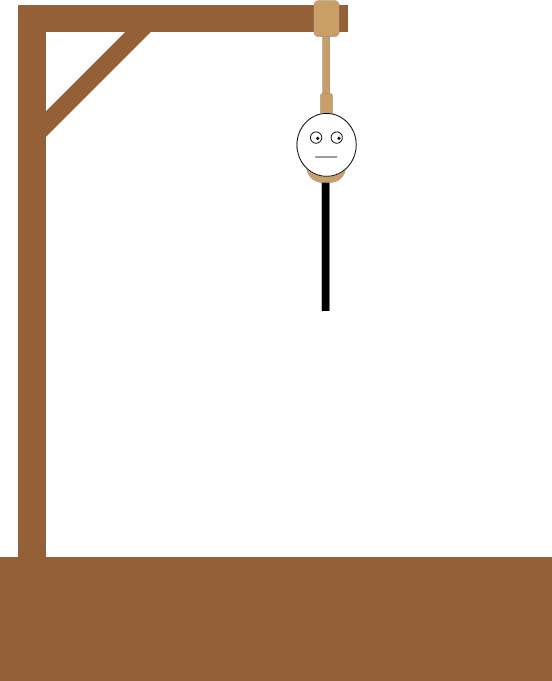
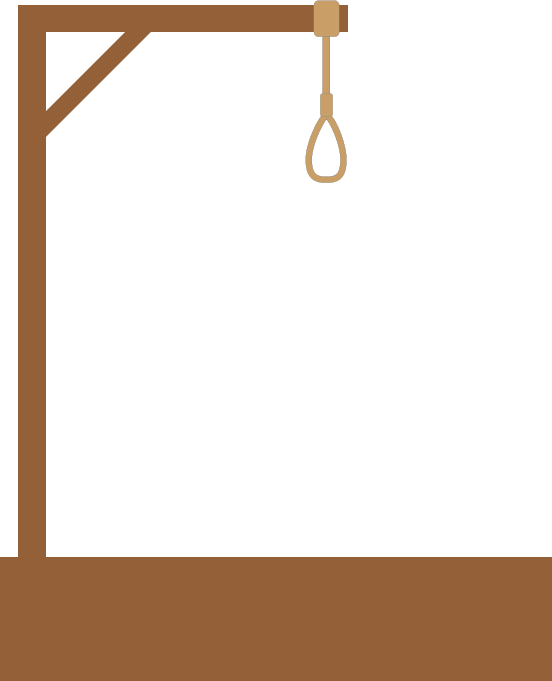
Ajouter plus d'erreurs possibles

Changed region(s): [[0.5236, 0.1542, 0.6467, 0.4626]]

diff --git a/assets/js/script.js b/assets/js/script.js
@@ -6,6 +6,9 @@ const penduSrc = [
     "assets/img/pendu4.png",
     "assets/img/pendu5.png",
     "assets/img/pendu6.png",
+    "assets/img/pendu7.png",
+    "assets/img/pendu8.png",
+    "assets/img/pendu9.png",
 ];
 
 const randomWords = ["ABALONE","ABALONES","ABDUCTION","ABDUCTIONS","ABERRANT","ABERRANTS","ABRACADABRA","ABRACADABRAS","ABRAXAS","ACROBATES","ACROSTICHE","ACROSTICHES","ACTIONNAIRE","ACTIONNAIRES","ADDICT","ADDICTS","ADJUGE","ADJUGES","AFICIONADO","AFICIONADOS","AGENT","AGENTS","AGGRAVATION","AGGRAVATIONS","AGORA","AGORAS","AIDEAU","AIDEAUX","ALARME","ALARMES","ALBEDO","ALBEDOS","ALCAZAR","ALCAZARS","ALEA","ALEAS","ALIAS","ALIBI","ALIBIS","ALIENS","ALLIANCE","ALLIANCES","ALPAGES","ALUETTE","ALUETTES","AMAZONE","AMAZONES","AMBIGU","AMBIGUS","AMBITION","AMBITIONS","AMBRE","AMBRES","AMERICAIN","AMERICAINS","AMIRAUTE","AMIRAUTES","ANACROISES","ANAGRAMME","ANAGRAMMES","ANCIENNE","ANCIENNES","ANE","ANES","ANGUILLE","ANGUILLES","ANIMA","ANIMAS","BACCALAUREAT","BACCALAUREATS","BACCARA","BACCARAS","BACCHANALES","BACKGAMMON","BACKGAMMONS","BADABOUM","BAGATELLE","BAGATELLES","BAGOU","BAGOUS","BAGUENAUDIER","BAGUENAUDIERS","BAGUES","BALAI","BALAIS","BALAN","BALANCE","BALANCES","BALLAST","BALLASTS","BALLE","BALLES","BALLON","BALLONS","BALTHAZAR","BALTHAZARS","BAMBOUS","BANCO","BANCOS","BANDA","BANDAS","BANQUISE","BANQUISES","BANTU","BANTUS","BANZAI","BAQUET","BAQUETS","BARAQUE","BARAQUES","BARATIN","BARATINS","BARBOTTE","BARBOTTES","BARBU","BARBUS","BARON","BARONS","BARRACUDA","BARRACUDAS","BARRES","BARRICADE","BARRICADES","BASCULE","BASCULES","BASIC","BASICS","BASKET","BASKETS","BASSETTE","BASSETTES","BASTIDE","BASTIDES","BASTON","BASTONS","BATACLAN","BATACLANS","BATAILLE","BATAILLES","BATAVIA","BATAVIAS","BATIK","BATIKS","BATONNETS","BELLIGERANTS","BELOTE","BELOTES","BENGALI","BENGALIS","BERET","BERETS","BERGER","BERGERS","BESIGUE","BESIGUES","BETE","BETES","BETISIER","BETISIERS","BIDET","BIDETS","BILBOQUET","BILBOQUETS","BILLARD","BILLARDS","BILLE","BILLES","BILLON","BILLONS","BINGO","BINGOS","BINOCLE","BINOCLES","BIRIBI","BIRIBIS","BISON","BISONS","BITUME","BITUMES","BLUFF","BLUFFER","BLUFFS","BOG","BOGS","BOLIDES","BOMBE","BOMBES","BONGO","BONGOS","BONNETEAU","BONNETEAUX","BOOMERANG","BOOMERANGS","BOSSE","BOSSES","BOSTON","BOSTONS","BOUC","BOUCLES","BOUCS","BOUILLOTTE","BOUILLOTTES","BOULE","BOULES","BOULIER","BOULIERS","BOUM","BOUMS","BOURRE","BOURRES","BOURRICOT","BOURRICOTS","BOURRU","BOURRUS","BOURSE","BOURSES","BOUTEILLE","BOUTEILLES","BRELAN","BRELANS","BRIDGE","BRIDGES","BRILLANCE","BRILLANCES","BRISQUE","BRISQUES","BROCANTE","BROCANTES","BROUHAHA","BROUHAHAS","BUCHER","BUCHERS","BUNKER","BUNKERS","BURGER","BURGERS","BUSHIDO","BUSHIDOS","BUSINESS","BUT","BUTEUR","BUTEURS","BUTS","BUTTE","BUTTES","CABALE","CABALES","CABRIOLET","CABRIOLETS","CACHETTE","CACHETTES","CAILLOU","CAILLOUX","CALCULA","CALCULAS","CALYPSO","CALYPSOS","CAMELEON","CAMELEONS","CAMELOT","CAMELOTS","CAMOUFLAGE","CAMOUFLAGES","CAMPAGNOL","CAMPAGNOLS","CAMPANILE","CAMPANILES","CAMPUS","CANASTA","CANASTAS","CANCRES","CANISSE","CANISSES","CANNES","CANONNIERS","CANYON","CANYONS","CAPHARNAUM","CAPHARNAUMS","CAPRICE","CAPRICES","CAPTURES","CARABISTOUILLE","CARABISTOUILLES","CARACOLE","CARACOLES","CARACTERE","CARACTERES","CARAIBES","CARAMBA","CARAMBOUILLE","CARAMBOUILLES","CARAVANE","CARAVANES","CARGO","CARGOS","CARIOCA","CARIOCAS","CARRE","CARRES","CARRIER","CARRIERES","CARRIERS","CARROM","CARROMS","CARROUSEL","CARROUSELS","CARTES","CASAQUE","CASAQUES","CASBAH","CASBAHS","CASH","CASHS","CASINO","CASINOS","CASQUETTE","CASQUETTES","CHEVRES","CHIBRE","CHIBRES","CHICOREE","CHICOREES","CHIEN","CHIENS","CHIMERES","CHINA","CHINAS","CHIQUE","CHIQUES","CHOUINE","CHOUINES","CIBLE","CIBLES","CINEMA","CINEMAS","CIRCUIT","CIRCUITS","CITADELLE","CITADELLES","CITE","CITES","CITOYENNETE","CITOYENNETES","CIVILISATION","CIVILISATIONS","CLAIM","CLAIMS","CLANS","CLE","CLES","CLIPPERS","CLOU","CLOUS","CLOWN","CLOWNS","COCHONNET","COCHONNETS","COCHONS","COCORICO","COCORICOS","CODE","CODES","COINCHE","COINCHES","COMBINARD","COMBINARDS","COMBO","COMBOS","COMMERE","COMMERES","CON","CONCORDANCES","CONDOTTIERE","CONDOTTIERES","CONFERENCE","CONFERENCES","CONFRONTATION","CONFRONTATIONS","CONFUSION","CONFUSIONS","CONNEXION","CONNEXIONS","CONQUETE","CONQUETES","CONQUISTADOR","CONQUISTADORS","CONS","CONSPIRATEURS","CONSPIRATIONS","CONSTELLATION","CONSTELLATIONS","CONTACT","CONTACTS","CONTINUO","CONTINUOS","CONTRA","CONTRARIO","CONTRAS","CONTREE","CONTREES","CONTROVERSE","CONTROVERSES","COPS","COQUELICOT","COQUELICOTS","CORBEILLE","CORBEILLES","CORDA","CORDAS","CORDE","CORDES","CORNER","CORNERS","CORPORATION","CORPORATIONS","CORRIDA","CORRIDAS","CORRUPTION","CORRUPTIONS","CORSAIRE","CORSAIRES","COSMOS","COUCOU","COUCOUS","COUILLON","COUILLONS","COUP","COUPEZ","COUPLES","COUPS","COURATE","COURATES","COURONNE","COURONNES","COURTISANS","COUYON","COUYONS","COYOTE","COYOTES","CRACK","CRACKS","CRAPAUD","CRAPAUDS","CRAPETTE","CRAPETTES","CRAPS","CREDO","CREDOS","CRESCENDO","CRESCENDOS","CRESUS","CRIB","CRIBS","CRICKET","CRICKETS","CRIMES","CRIQUET","CRIQUETS","CROISADES","CROIX","CROQUET","CROQUETS","CROSS","CROSSE","CROSSES","CRYPTOGAME","CRYPTOGAMES","CUBA","CUBAS","CUBE","CUBES","DADA","DADAS","DAIMYO","DAIMYOS","DEDALES","DEFI","DEFIS","DEGOMME","DEGOMMES","DELTA","DELTAS","DERBY","DERBYS","DERIVE","DERIVES","DES","DESTINS","DEVINETTE","DEVINETTES","DIABOLO","DIABOLOS","DIADOQUES","DIAM","DIAMANT","DIAMANTS","DIAMS","DICO","DICOS","DICTIONNAIRE","DICTIONNAIRES","DIGIT","DIGITS","DINETTE","DINETTES","DINGBATS","DINGO","DINGOS","DIPLOMATIE","DIPLOMATIES","DISPOSITION","DISPOSITIONS","DISPUTE","DISPUTES","DIVERTIMENTO","DIVERTIMENTOS","DIXIT","DOCKERS","DOGE","DOGES","DOMINO","DOMINOS","DON","DONS","DOTS","DOUBLE","DOUBLES","DOUBLETTE","DOUBLETTES","DRAGON","DRAGONS","DRAGSTER","DRAGSTERS","DRAKKAR","DRAKKARS","DRAPEAU","DRAPEAUX","DROGUE","DROGUES","DRUMLIN","DRUMLINS","DUEL","DUELS","DUNE","DUNES","DUO","DUOS","DYADE","DYADES","EAU","EAUX","ECARTE","ECARTES","ECHANGE","ECHANGES","ECHAPPEE","ECHAPPEES","ECHASSES","ECHECS","ECHELLE","ECHELLES","ECOLOGIE","ECOLOGIES","ESPERANCE","ESPERANCES","ESPIONNAGE","ESPIONNAGES","ETOILE","ETOILES","EUREKA","EXCELLENCE","EXCELLENCES","EXIT","EXPEDITION","EXPEDITIONS","EXPERTS","EXPORTATION","EXPORTATIONS","EXPOS","EXPRES","EXPRESS","EXPRESSION","EXPRESSIONS","EXPRESSO","EXPRESSOS","FACTEUR","FACTEURS","FAKIR","FAKIRS","FANTOMES","FARANDOLE","FARANDOLES","FARO","FAROS","FASCINATION","FASCINATIONS","FEERIE","FEERIES","FEODALITE","FEODALITES","FER","FERME","FERMES","FERS","FESTIVAL","FESTIVALS","FICELLE","FICELLES","FIEF","FIEFS","FIGARO","FIGAROS","FILOU","FILOUS","FINALE","FINALES","FINANCE","FINANCES","FINESSE","FINESSES","FINISH","FINISHS","FITS","FLAMBEUR","FLAMBEURS","FLASH","FLASHS","FLECHETTES","FLIBUSTIERS","FLIP","FLIPPER","FLIPPERS","FLIPS","FLORENTIN","FLORENTINS","FLUX","FOCAL","FOCUS","FONCTIONNAIRE","FONCTIONNAIRE","FONCTIONNAIRES","FONCTIONNAIRES","FOOT","FOOT","FOOTS","FOOTS","FORCE","FORCE","FORCES","FORCES","FORESTIERE","FORESTIERE","FORESTIERES","FORESTIERES","FORMA","FORMA","FORMAS","FORMAS","FORMICA","FORMICA","FORMICAS","FORMICAS","FORTERESSE","FORTERESSE","FORTERESSES","FORTERESSES","FORTISSIMO","FORTISSIMO","FRAGILE","FRAGILE","FRAGILES","FRAGILES","FRAGRANCES","FRAGRANCES","FRANCAISE","FRANCAISE","FRANCAISES","FRANCAISES","FRANCOPHILE","FRANCOPHILE","FRANCOPHILES","FRANCOPHILES","FRISBEE","FRISBEE","FRISBEES","FRISBEES","FRONTIERES","FRONTIERES","FRUITS","FRUITS","FUDGE","FUDGE","FUDGES","FUDGES","FUGITIFS","FUGITIFS","FURET","FURET","FURETS","FURETS","GALETS","GALETS","GALOCHE","GALOCHE","GALOCHES","GALOCHES","GAMATE","GAMATE","GAMATES","GAMATES","GAMELLE","GAMELLE","GAMELLES","GAMELLES","GANGSTER","GANGSTER","GANGSTERS","GANGSTERS","GARCON","GARCON","GARCONS","GARCONS","GAUDI","GAUDI","GAUDIS","GAUDIS","GENIAL","GENIAL","GEO","GEO","GEOS","GEOS","GERBE","GERBE","GERBES","GERBES","GIN","GIN","GINS","GINS","GLISSADE","GLISSADE","GLISSADES","GLISSADES","GO","GO","GONDOLIER","GONDOLIER","GONDOLIERS","GONDOLIERS","GORE","GORE","GORES","GORES","GOS","GOS","GOSSE","GOSSE","GOSSES","GOSSES","GOUREN","GOUREN","GOURENS","GOURENS","GOUTER","GOUTER","GOUTERS","GOUTERS","GRAAL","GRAAL","GRAALS","GRAALS","GRACES","GRACES","GRACIAS","GRACIAS","GRANITO","GRANITO","GRANITOS","GRANITOS","GRENOUILLE","GRENOUILLE","GRENOUILLES","GRENOUILLES","GREYHOUNDS","GREYHOUNDS","GRIMACES","GRIMACES","GUILDES","GUILDES","GUILLOTINE","GUILLOTINE","GUILLOTINES","GUILLOTINES","GUIMBARDE","GUIMBARDE","GUIM","HANDICAP","HANDICAPS","HANDICAPS","HANTISE","HANTISE","HANTISES","HANTISES","HASARD","HASARD","HASARDS","HASARDS","HELICE","HELICE","HELICES","HELICES","HERE","HERE","HERES","HERES","HERISSONS","HERISSONS","HERMINE","HERMINE","HERMINES","HERMINES","HEXAGONE","HEXAGONE","HEXAGONES","HEXAGONES","HIGHLANDERS","HIGHLANDERS","HOCA","HOCA","HOCAS","HOCAS","HOLDING","HOLDING","HOLDINGS","HOLDINGS","HOMBRE","HOMBRE","HOMBRES","HOMBRES","HONCHETS","HONCHETS","HONGROIS","HONGROIS","HOROSCOPE","HOROSCOPE","HOROSCOPES","HOROSCOPES","HOTEL","HOTEL","HOTELS","HOTELS","HUIT","HUIT","HURLEMENTS","HURLEMENTS","HUSSARDS","HUSSARDS","HYENE","HYENE","HYENES","HYENES","ICEBERG","ICEBERG","ICEBERGS","ICEBERGS","ILES","ILES","IMAGES","IMAGES","IMAGINE","IMAGINE","IMAGINES","IMAGINES","IMMOBILIER","IMMOBILIER","IMMOBILIERS","IMMOBILIERS","IMMORTEL","IMMORTEL","IMMORTELS","IMMORTELS","IMPERIAL","IMPERIAL","IMPERIALE","IMPERIALE","IMPERIALES","IMPERIALES","IMPERIUM","IMPERIUM","IMPERIUMS","IMPERIUMS","IMPRESARIO","IMPRESARIO","IMPRESARIOS","IMPRESARIOS","INAVOUABLE","INAVOUABLE","INAVOUABLES","INAVOUABLES","INCOGNITO","INCOGNITO","INCOGNITOS","INCOGNITOS","INCOLLABLES","INCOLLABLES","INCROYABLE","INCROYABLE","INCROYABLES","INCROYABLES","INDUS","INDUS","INFLUENCES","INFLUENCES","INITIALES","INITIALES","INPUT","INPUT","INPUTS","INPUTS","INSTINCT","INSTINCT","INSTINCTS","INSTINCTS","INTEMPERIES","INTEMPERIES","INTERACTION","INTERACTION","INTERACTIONS","INTERACTIONS","INTRIGUE","INTRIGUE","INTRIGUES","INTRIGUES","INTRUS","INTRUS","INTUITION","INTUITION","INTUITIONS","INTUITIONS","INVASION","INVASION","INVASIONS","INVASIONS","ISOLA","ISOLA","ISOLAS","ISOLAS","IVE","IVE","IVES","IVES","JACQUET","JACQUET","JACQUETS","JACQUETS","JARDINAGE","JARDINAGE","JARDINAGES","JARDINAGES","JASS","JASS","JAVA","JAVA","JAVAS","JAVAS","JAVELOT","JAVELOT","JAVELOTS","JAVELOTS","JEU","JEU","JEUX","JEUX","JOCKEY","JOCKEY","JOCKEYS","JOCKEYS","JOKARI","JOKARI","JOKARIS","JOKARIS","JONCHETS","JONCHETS","JONGLAGE","JONGLAGE","JONGLAGES","JONGLAGES","JUMEAUX","JUMEAUX","JUMP","JUMP","JUMPS","JUMPS","JUNGLE","JUNGLE","JUNGLES","JUNGLES","KAISER","KAISER","KAISERS","KAISERS","KALEIDOSCOPE","KALEIDOSCOPE","KALEIDOSCOPES","KALEIDOSCOPES","KAMI","KAMI","KAMIS","KAMIS","KANGOUROU","KANGOUROU","KANGOUROUS","KANGOUROUS","KENDO","KENDO","KENDOS","KENDOS","KREMLIN","KREMLIN","KREMLINS","KREMLINS","KRIEGSPIEL","KRIEGSPIEL","KRIEGSPIELS","KRIEGSPIELS","LABYRINTHE","LABYRINTHE","LABYRINTHES","LABYRINTHES","LANSQUENET","LANSQUENET","LANSQUENETS","LANSQUENETS","LANTURLU","LANTURLU","LANTURLUS","LANTURLUS","LAPINS","LAPINS","LAUREAT","LAUREAT","LAUREATS","LAUREATS","LEGO","LEGO","LEGOS","LEGOS","LIBERTE","LIBERTE","LIBERTES","LIBERTES","LICES","LICES","LIEGE","LIEGE","LIEGES","LIEGES","LINDOR","LINDOR","LINDORS","LINDORS","LINOTTE","LINOTTE","LINOTTES","LINOTTES","LIVREURS","LIVREURS","LOBA","LOBA","LOBAS","LOBAS","LOCO","LOCO","LOCOS","LOCOS","LOGIGRILLE","LOGIGRILLE","LOGIGRILLES","LOGIGRILLES","LOOPING","LOOPING","LOOPINGS","LOOPINGS","LOTERIE","LOTERIE","LOTERIES","LOTERIES","LOTO","LOTO","LOTOS","LOTOS","LOTUS","LOTUS","LOUP","LOUP","LOUPS","LOUPS","LOUTRE","LOUTRE","LOUTRES","LOUTRES","LUETTE","LUETTE","LUETTES","LUETTES","LUTINERIE","LUTINERIE","LUTINERIES","LUTINERIES","LYNX","LYNX","MABOULS","MABOULS","MACADAM","MACADAM","MACADAMS","MACADAMS","MACHER","MACHER","MAELSTROM","MAELSTROM","MAELSTROMS","MAELSTROMS","MAESTRO","MAESTROS","MAFIA","MAFIAS","MAGIE","MAGIES","MAGISTRAL","MAGNA","MAGNAS","MAGOT","MAGOTS","MAHARADJAH","MAHARADJAHS","MAHARAJA","MAHARAJAS","MAIL","MAILLETS","MAILS","MALABARS","MALEFICES","MAMBA","MAMBAS","MAMMA","MAMMAS","MANA","MANAGER","MANAGERS","MANAS","MANDARIN","MANDARINS","MANEGE","MANEGES","MANILLA","MANILLAS","MANILLE","MANILLES","MANIPULATEUR","MANIPULATEURS","MANITOU","MANITOUS","MANNEQUINS","MANOEUVRE","MANOEUVRES","MAO","MAOS","MARABOUT","MARABOUTS","MARELLE","MARELLES","MARIAGE","MARIAGES","MARIEE","MARIEES","MARK","MARKETING","MARKETINGS","MARKS","MARQUIS","MARTEAU","MARTEAUX","MASCARADE","MASCARADES","MASSACRE","MASSACRES","MASSAI","MASSAIS","MATADOR","MATADORS","MAYA","MAYAS","MECCANO","MECCANOS","MEDIEVAL","MEDINA","MEDINAS","MEDITERRANEE","MEDITERRANEES","MEDIUM","MEDIUMS","MEGA","MEGALO","MEGALOS","MEGAS","MEMOIRE","MEMOIRES","MENHIR","MENHIRS","MENTEUR","MENTEURS","MERCI","MERCIS","MERLIN","MERLINS","MESOPOTAMIEN","MESOPOTAMIENS","METAGRAMME","METAGRAMMES","METALLURGIE","METALLURGIES","METAMORPHOSE","METAMORPHOSES","METRO","METROS","MEUH","MEULE","MEULES","MIAM","MIKADO","MIKADOS","MILLIONNAIRE","MILLIONNAIRES","MIME","MIMES","MINESTRONE","MINESTRONES","MIROIR","MIROIRS","MISE","MISES","MISTIGRI","MISTIGRIS","MOAI","MOAIS","MOLLE","MOLLES","MONEGASQUE","MONEGASQUES","MONOPOLY","MONOPOLYS","MONTGOLFIERE","MONTGOLFIERES","MONTJOIE","MONTJOIES","MORFALS","MORPION","MORPIONS","MOTUS","MOUCHE","MOUCHES","MOUCHOIR","MOUCHOIRS","MOULIN","MOULINS","MOURRE","MOURRES","MUS","MUSTANGS","MUTANTS","MYTHOS","NAINS","NAPOLEON","NAPOLEONS","NAPOLITAINE","NAPOLITAINES","NAUFRAGES","NEGOCES","NEUF","NEUFS","NEURONES","NEUTRON","NEUTRONS","NIGAUD","NIGAUDS","NINJA","NINJAS","NUGGETS","OASIS","OBSERVATEUR","OBSERVATEURS","OCEAN","OCEANS","OCTOGONE","OCTOGONES","ODYSSEE","ODYSSEES","OHE","OIE","OLE","OLYMPIQUES","OMEGA","ONYX","ONZE","OPTION","OPTIONS","ORDO","ORIENTE","ORIENTES","ORIGAMI","ORIGAMIS","OSSELETS","OTHELLO","OTHELLOS","OURSON","OURSONS","OUT","OVNI","OVNIS","OXO","PACHINKO","PACHINKOS","PAF","PAFS","PAGODE","PAGODES","PAIRES","PALA","PALABRES","PALADIN","PALADINS","PALANQUEE","PALANQUEES","PALAS","PALET","PALETA","PALETAS","PALETS","PANDEMONIUM","PANDEMONIUMS","PANIER","PANIERS","PAPARAZZI","PAPARAZZIS","PAPILLON","PAPILLONS","PARADIS","PARANOIA","PARANOIAS","PARCOURS","PARESSEUX","PARI","PARIS","PARRAIN","PARRAINS","PASSERELLES","PATATRAS","PATIENCE","PATIENCES","PATIO","PATIOS","PAUME","PAUMES","PECHEUR","PECHEURS","PEDALO","PEDALOS","PELOTON","PELOTONS","PENDU","PENDUS","PENNY","PENNYS","PENTE","PENTES","PERIPETIES","PERLES","PHARAON","PHARAONS","PHILIPPINE","PHILIPPINES","PHOENIX","PIANO","PIANOS","PICKPOCKET","PICKPOCKETS","PIEGES","PILOU","PILOUS","PIN","PINACLE","PINACLES","PINCETTE","PINCETTES","PINGOUIN","PINGOUINS","PINS","PIPELINE","PIPELINES","PIQUET","PIQUETS","PIRANHA","PIRANHAS","PIRATES","PISTE","PISTES","PITCH","PITCHS","PIVOT","PIVOTS","PLANETAIRE","PLANETAIRES","PLATEAU","PLATEAUX","PLEIADES","PLIAGE","PLIAGES","PLOMBIER","PLOMBIERS","POGO","POGOS","POINT","POINTS","POIRIER","POIRIERS","POISON","POISONS","POKER","POKERS","POLYGONE","POLYGONES","POMME","POMMES","POMMIER","POMMIERS","PONEYS","PONT","PONTS","POPOTAMO","POQUE","POQUES","PORTRAIT","PORTRAITS","POT","POTERIE","POTERIES","POTS","POUILLEUX","POULPE","POULPES","POUSSETTE","POUSSETTES","POUTRE","POUTRES","POUX","PRAIRIE","PRAIRIES","PREDATEURS","PREFERENCE","PREFERENCES","PRESIDENT","PRESIDENTS","PRIME","PRIMES","PRISES","PROBE","PROBES","PROVOCATION","PROVOCATIONS","PUANT","PUANTS","PUCE","PUCES","PUCIER","PUCIERS","PUEBLO","RAMPEAUX","RANCH","RANCHS","RANDONNEE","RANDONNEES","RAPIDO","RAPIDOS","RAPPEL","RAPPELS","RAS","RASANT","RASANTS","RAZZIA","RAZZIAS","REACTION","REACTIONS","REBOT","REBOTS","REBUS","REFLEXION","REFLEXIONS","REGATES","REGENCE","REGENCES","RENAISSANCE","RENAISSANCES","RENARD","RENARDS","REPORTAGES","REQUIN","REQUINS","RESTAURANT","RESTAURANTS","REUSSITE","REUSSITES","REVELATIONS","REVERSI","REVERSIS","REVOLUTION","REVOLUTIONS","RIBAUDS","RICHELIEU","RICHELIEU","RICHELIEUS","RICHELIEUS","RICHELIEUX","RICHELIEUX","RIFLE","RIFLE","RIKIKI","RIKIKI","RIKIKIS","RIKIKIS","RIME","RIME","RIMES","RIMES","RIO","RIO","RIOS","RIOS","RIPOUX","RIPOUX","RISQUE","RISQUE","RISQUES","RISQUES","ROBERT","ROBERT","ROBERTS","ROBERTS","RODEO","RODEO","RODEOS","RODEOS","ROI","ROI","ROIS","ROIS","ROLE","ROLE","ROLES","ROLES","RONDE","RONDE","RONDES","RONDO","RONDOS","RONFLE","RONFLES","ROUE","ROUES","ROULETTE","ROULETTES","ROUTARD","ROUTARDS","RUCHE","RUCHES","RUGBY","RUGBYS","RUNE","RUNES","SABOT","SABOTAGE","SABOTAGES","SABOTEUR","SABOTEURS","SABOTS","SAFARI","SAFARIS","SAGA","SAGAS","SAGESSE","SAGESSES","SALAMI","SALAMIS","SALIERE","SALIERES","SALVE","SALVES","SAMOURAI","SAMOURAIS","SAMURAI","SAMURAIS","SARDINES","SAUTERELLE","SAUTERELLES","SAVATE","SAVATES","SCARABEE","SCARABEES","SCENARIO","SCENARIOS","SCOOP","SCOOPS","SCOPA","SCOPAS","SCORE","SCORES","SCORPION","SCORPIONS","SCOUT","SCOUTS","SCRABBLE","SCRABBLES","SENAT","SENATS","SEPT","SEQUENCE","SEQUENCES","SERPENT","SERPENTS","SESAME","SESAMES","SET","SETS","SHAMAN","SHAMANS","SHIT","SHITS","SHOGI","SHOGIS","SHOGUN","SHOGUNS","SHOOT","SHOOTS","SIDERAL","SIEGE","SIEGES","SIESTA","SIESTAS","SIFFLET","SIFFLETS","SIGNAL","SILLAGE","SILLAGES","SIMULACRES","SINGE","SINGES","SIOUX","SIROCCO","SIROCCOS","SIX","SIXTE","SIXTES","SKAT","SKATS","SNOOKER","SNOOKERS","SNOWBOARD","SNOWBOARDS","SOCIETE","SOCIETES","SOLEIL","SOLEILS","SOLITAIRE","SOLITAIRES","SOLO","SOLOS","SONATE","SONATES","SORCELLERIE","SORCELLERIES","SORCIER","SORCIERE","SORCIERES","SORCIERS","SORTIE","SORTIES","STRATEGES","STUD","STUDS","SUBITO","SUCCES","SUDOKU","SUDOKUS","SULTAN","SULTANS","SUMO","SUMOS","SUPPORTERS","SUPREMATIE","SUPREMATIES","SURVIVANT","SURVIVANTS","SUSPENS","SUSPENSE","SUSPENSES","SUZERAIN","SUZERAINS","SWITCH","SWITCHES","SWITCHS","SYLLABUS","SYMPATHIE","SYMPATHIES","TABERNACLE","TABERNACLES","TABOU","TABOUS","TAC","TACS","TALISMAN","TALISMANS","TANAGRA","TANAGRAS","TANDEM","TANDEMS","TANGAGE","TANGAGES","TANGO","TANGOS","TAPETTE","TAPETTES","TAQUETS","TAQUIN","TAQUINS","TARA","TARAS","TARATATA","TARGUI","TARGUIS","TARIN","TARINS","TAROT","TAROTS","TAS","TAUREAU","TAUREAUX","TAUROMACHIE","TAUROMACHIES","TEMPLES","TENNIS","TERRA","TERRAS","THEQUE","THEQUES","TIERCE","TIERCES","TILT","TILTS","TIPI","TIPIS","TITAN","TITANS","TITUS","TOC","TOCS","TOMAHAWK","TOMAHAWKS","TOMATE","TOMATES","TOMBEURS","TOMBOLA","TOMBOLAS","TONNEAU","TONNEAUX","TONNELET","TONNELETS","TONTINE","TONTINES","TOPS","TOQUE","TOQUES","TORDU","TORDUS","TOTEM","TOTEMS","TOTON","TOTONS","TOUCHE","TOUCHES","TOUPIE","TOUPIES","TOUR","TOURS","TRAC","TRACS","TRAFIC","TRAFICS","TRAJECTOIRES","TRANSAT","TRANSATS","TRANSFUGE","TRANSFUGES","TRAQUEUR","TRAQUEURS","TRAUMA","TRAUMAS","TRAVELLER","TRAVELLERS","TRAX","TREIZE","TRESOR","TRESORS","TRIAGE","TRIAGES","TRIANGLES","TRIAS","TRIBUN","TRIBUNS","TRIBUS","TRICTRAC","TRICTRACS","TRINOME","TRINOMES","TRIO","TRIOLET","TRIOLETS","TRIOMPHE","TRIOMPHES","TRIOS","TRUIE","TRUIES","TRUST","TRUSTS","TUNE","TUNES","TURBO","TURBOS","TURFISTE","TURFISTES","TURQUOISE","TURQUOISES","TWISTER","TYPO","TYPOS","ULTIMO","URGENCE","URGENCES","VACHE","VACHES","VACHETTE","VACHETTES","VALETS","VAMPIRE","VAMPIRES","VEDETTES","VENDETTA","VENDETTAS","VERDICT","VERDICTS","VERGER","VERGERS","VERITE","VERITES","VERMINE","VERMINES","VERNISSAGE","VERNISSAGES","VERRAT","VERRATS","VERSANT","VERSANTS","VERSO","VERSOS","VERTIGES","VERTIGO","VERTIGOS","VESSIE","VESSIES","VETILLE","VETILLES","VIADUC","VIADUCS","VICAIRE","VICAIRES","VIGIES","VIKINGS","VILLAGES","VIRUS","VISITEURS","VOGELPIK","VOGELPIKS","VOILE","VOILES","VOLANT","VOLANTS","VOLAPUK","VOLAPUKS","VOLCANS","VOLEUR","VOLEURS","VOLTAIRE","VOLTAIRES","VROOM","WALE","WALES","WALI","WALIS","WARGAME","WARGAMES","WASABI","WASABIS","WHIST","ZANZI","ZANZIBAR","ZANZIBARS","ZANZIS","ZERO","ZEROS","ZOMBIES","ZOOS"];
@@ -19,6 +22,7 @@ function game(){
     document.getElementById("accueil").style.display = "none";
     document.getElementById("win").style.display = "none";
     document.getElementById("loose").style.display = "none";
+    document.getElementById("target").style.color = "black";
     
 
     let word = randomWords[parseInt(Math.random()*(randomWords.length+1))];
@@ -81,17 +85,20 @@ function game(){
             input.value = "";
             document.getElementById("accueil").style.display = "flex";
             document.getElementById("win").style.display = "inline";
+            document.getElementById("target").style.color = "green";
             document.getElementById("try").removeEventListener("click", guessLetter);
             window.removeEventListener("keypress",enter);
             input.value = "";
             return;
         }
 
-        if(badTries == 6){
+        if(badTries == 9){
             document.getElementById("accueil").style.display = "flex";
             document.getElementById("loose").style.display = "inline";
             document.getElementById("try").removeEventListener("click", guessLetter);
             window.removeEventListener("keypress",enter);
+            document.getElementById("target").innerHTML = wordToTable.join(' ');
+            document.getElementById("target").style.color = "red";
             input.value = "";
             return;
         }

diff --git a/assets/scss/style.scss b/assets/scss/style.scss
@@ -59,8 +59,11 @@ img{
     border-radius: 20px;
     padding:10px;
     font-size: 3rem;
-
     word-wrap: break-word;
+
+    p{
+        margin:0;
+    }
     
 }
 

diff --git a/assets/css/style.css b/assets/css/style.css
@@ -74,6 +74,10 @@ img {
   word-wrap: break-word;
 }
 
+.errors p {
+  margin: 0;
+}
+
 h2 {
   font-size: 4rem;
   margin: 2% 0;
